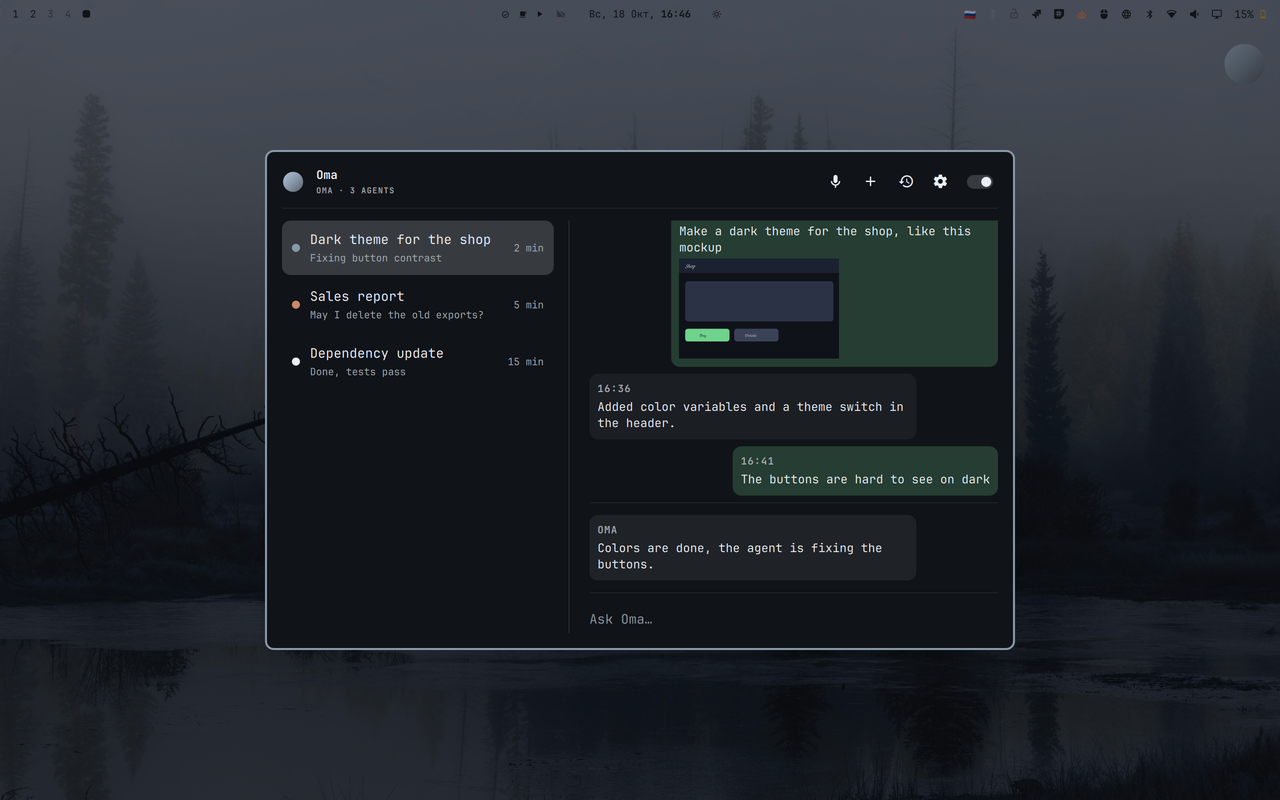
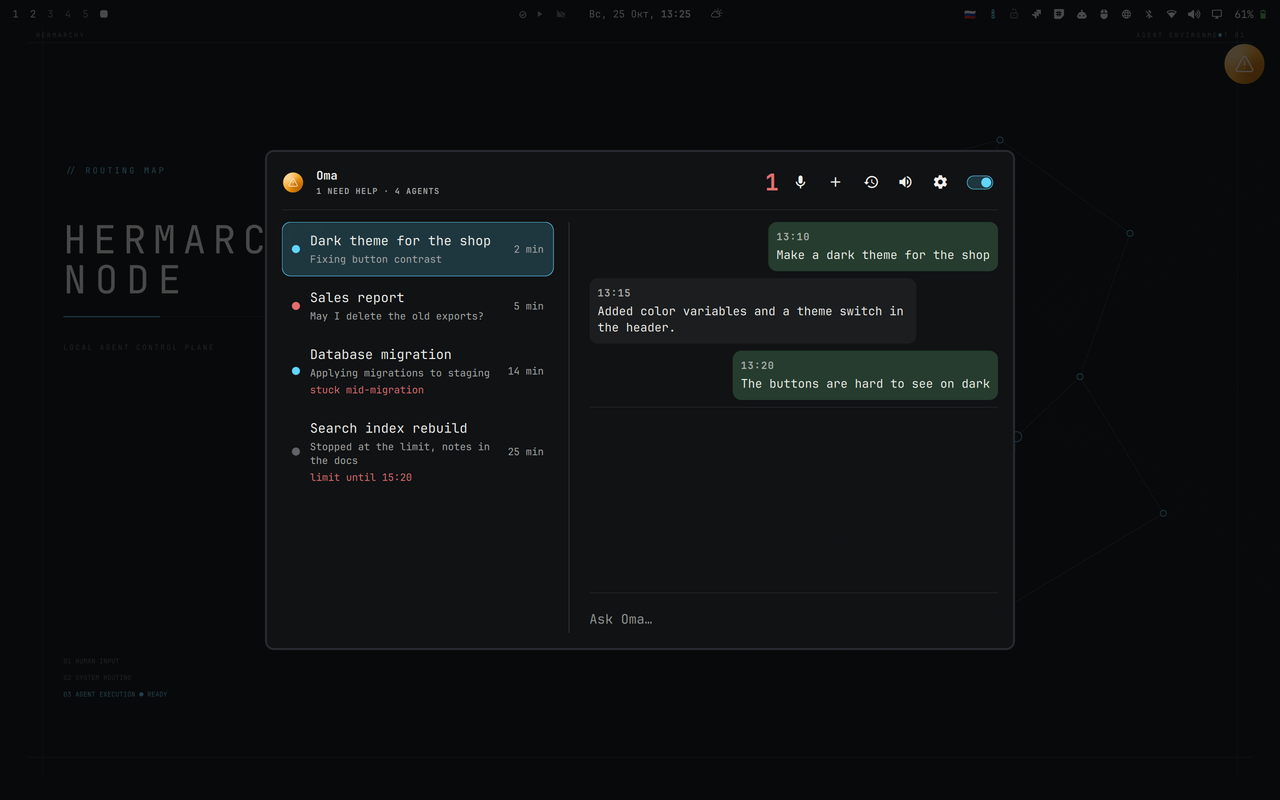
сторож: не сдаётся насовсем после трёх попыток, зовёт при молчании после просьбы про помощника; подсказка про лимит со свежими минутами; statusline без аргументов зовёт пользовательскую statusLine (обёртка — в managed-настройках, Orca её не затирает); новый снимок

diff --git a/src/watch.rs b/src/watch.rs
@@ -70,7 +70,7 @@ const WAKE_AFTER: u64 = 60;
 const NET_WAIT: u64 = 60;
 const NET_TRIES: usize = 3;
 const NET_WINDOW: u64 = 1800;
-/// Больше стольких попыток поднять зависшего за час — сдаёмся и зовём пользователя.
+/// Больше стольких попыток поднять зависшего за час — зовём пользователя; попытка вышла из часа — пробуем снова.
 const ATTEMPTS: usize = 3;
 const ATTEMPTS_WINDOW: u64 = 3600;
 /// Знаков ввода вызова в вопросе модели о зависании.
@@ -104,7 +104,8 @@ struct Track {
     active: u64, // active_at прошлого тика: сменился — агент ожил
     ladder: Ladder,
     said: bool,   // о нынешней тишине уже сказано (опасное, вне терминала, сдалась)
-    nudged: bool, // помощникам уже написано за эту тишину
+    nudged: u64,  // когда за эту тишину написали агенту про помощника; 0 — не писали
+    gave_up: bool, // попытки за час кончились, пользователю сказано
     sub: bool,    // прерван ход с сабагентом
     attempts: Vec<u64>,
     killed_at: u64, // Ома нажала Ctrl+C: агент, закрывшийся вскоре, поднять и при пользователе за компьютером
@@ -124,7 +125,7 @@ struct Track {
 impl Track {
     /// Агент ожил: тишина и всё, что о ней сказано и сделано, позади.
     fn calm(&mut self) {
-        (self.ladder, self.said, self.nudged, self.alarm) = (Ladder::None, false, false, false);
+        (self.ladder, self.said, self.nudged, self.gave_up, self.alarm) = (Ladder::None, false, 0, false, false);
         self.health = self.limited.map(|(u, _)| limit_health(u)).unwrap_or_default();
     }
 }
@@ -360,20 +361,39 @@ fn outside(t: &mut Track, f: &Facts, now: u64) -> Vec<Act> {
     say(&f.id, format!("{}: агент завис, но он не в herdr или Orca — перезапусти сам.", f.project), true)
 }
 
+/// Попыток за час не осталось — сказать пользователю один раз; None — пробовать можно.
+fn spent(t: &mut Track, f: &Facts, now: u64, what: &str) -> Option<Vec<Act>> {
+    t.attempts.retain(|&x| now.saturating_sub(x) < ATTEMPTS_WINDOW);
+    if t.attempts.len() < ATTEMPTS {
+        return None;
+    }
+    if t.gave_up {
+        return Some(vec![]);
+    }
+    (t.gave_up, t.alarm, t.alarm_at) = (true, true, now);
+    let n = (t.attempts[0] + ATTEMPTS_WINDOW - now).div_ceil(60);
+    Some(say(&f.id, format!("{}: {what}. Через {n} мин попробую снова.", f.project), true))
+}
+
 /// Работает, а событий нет `quiet` секунд: помощники, опасное, лестница Esc → Ctrl+C → перезапуск.
 fn hang(t: &mut Track, ctx: &Ctx, f: &Facts, quiet: u64) -> Vec<Act> {
     let (p, now, n) = (&f.project, ctx.now, quiet / 60);
     if f.helpers > 0 {
         // помощник бывает сервером и молчит часами: писать агенту — только по вердикту модели «висит»
         match t.ladder {
-            _ if t.nudged => return vec![],
-            Ladder::Hung => {
-                t.nudged = true;
-                t.attempts.retain(|&x| now.saturating_sub(x) < ATTEMPTS_WINDOW);
-                if t.attempts.len() >= ATTEMPTS {
-                    (t.said, t.alarm, t.alarm_at) = (true, true, now);
-                    return say(&f.id, format!("{p}: помощник агента снова молчит — посмотри сам."), true);
+            // просьба агента не разбудила — зовём пользователя, один раз
+            _ if t.nudged > 0 => {
+                if now.saturating_sub(t.nudged) < ctx.hung_after || t.said {
+                    return vec![];
                 }
+                (t.said, t.alarm, t.alarm_at) = (true, true, now);
+                return say(&f.id, format!("{p}: агент не ответил на просьбу проверить помощника — посмотри сам."), true);
+            }
+            Ladder::Hung => {
+                if let Some(acts) = spent(t, f, now, "помощник агента снова молчит — посмотри сам") {
+                    return acts;
+                }
+                t.nudged = now;
                 t.attempts.push(now);
             }
             Ladder::Judging => return vec![],
@@ -434,10 +454,8 @@ fn hang(t: &mut Track, ctx: &Ctx, f: &Facts, quiet: u64) -> Vec<Act> {
         return say(&f.id, text, true);
     }
     let Some(pane) = &f.pane else { return outside(t, f, now) };
-    t.attempts.retain(|&x| now.saturating_sub(x) < ATTEMPTS_WINDOW);
-    if t.attempts.len() >= ATTEMPTS {
-        (t.said, t.alarm, t.alarm_at) = (true, true, now);
-        return say(&f.id, format!("{p}: агент снова завис — поднять не получилось, посмотри сам."), true);
+    if let Some(acts) = spent(t, f, now, "агент снова завис — поднять не получилось, посмотри сам") {
+        return acts;
     }
     let sub = matches!(name, "Agent" | "Task");
     // без модели и при долгой тишине — завис; сабагент, молчащий вместе с родителем, — тоже
@@ -664,7 +682,7 @@ mod tests {
     }
 
     #[test]
-    fn three_attempts_an_hour_then_gives_up() {
+    fn three_attempts_an_hour_then_waits_for_the_window() {
         let mut w = Watch::default();
         let mut t = 1;
         for i in 0..3 {
@@ -673,8 +691,11 @@ mod tests {
             t += 801;
         }
         let a = Facts { call: Some(json!({"name": "Agent", "input": {}})), active_at: t, ..f("a") };
-        let acts = w.check(&ctx(t + 800, 999), vec![a], |_| true, |_| false);
-        assert!(matches!(&acts[..], [Act::Say { urgent: true, text, .. }] if text == "p: агент снова завис — поднять не получилось, посмотри сам."), "{acts:?}");
+        let acts = w.check(&ctx(t + 800, 999), vec![a.clone()], |_| true, |_| false);
+        assert!(matches!(&acts[..], [Act::Say { urgent: true, text, .. }] if text == "p: агент снова завис — поднять не получилось, посмотри сам. Через 20 мин попробую снова."), "{acts:?}");
+        assert_eq!(w.trouble(), 1);
+        assert!(w.check(&ctx(4400, 999), vec![a.clone()], |_| true, |_| false).is_empty(), "сказано один раз, попытки ещё в окне");
+        assert_eq!(run_of(&w.check(&ctx(4401, 999), vec![a], |_| true, |_| false)[0]).unwrap().what, What::Interrupt, "первая попытка вышла из часа — не сдаёмся");
     }
 
     #[test]
@@ -880,8 +901,26 @@ mod tests {
         let a = Facts { helpers: 1, active_at: t, ..f("a") };
         w.check(&ctx(t + 800, 0), vec![a.clone()], |_| true, |_| false);
         w.judged("a", true, t + 801);
-        let acts = w.check(&ctx(t + 802, 0), vec![a], |_| true, |_| false);
-        assert!(matches!(&acts[..], [Act::Say { urgent: true, text, .. }] if text == "p: помощник агента снова молчит — посмотри сам."), "{acts:?}");
+        let acts = w.check(&ctx(t + 802, 0), vec![a.clone()], |_| true, |_| false);
+        assert!(matches!(&acts[..], [Act::Say { urgent: true, text, .. }] if text == "p: помощник агента снова молчит — посмотри сам. Через 15 мин попробую снова."), "{acts:?}");
+        assert!(w.check(&ctx(t + 900, 0), vec![a.clone()], |_| true, |_| false).is_empty());
+        assert_eq!(run_of(&w.check(&ctx(803 + 3600, 0), vec![a], |_| true, |_| false)[0]).unwrap().what, What::Nudge, "окно освободилось — пишем снова");
+    }
+
+    #[test]
+    fn unanswered_nudge_calls_the_user() {
+        let mut w = Watch::default();
+        let a = Facts { helpers: 1, ..f("a") };
+        w.check(&ctx(800, 0), vec![a.clone()], |_| true, |_| false);
+        w.judged("a", true, 801);
+        assert_eq!(run_of(&w.check(&ctx(802, 0), vec![a.clone()], |_| true, |_| false)[0]).unwrap().what, What::Nudge);
+        assert!(w.check(&ctx(802 + 719, 0), vec![a.clone()], |_| true, |_| false).is_empty(), "ждём ответа агента");
+        let acts = w.check(&ctx(802 + 720, 0), vec![a.clone()], |_| true, |_| false);
+        assert!(matches!(&acts[..], [Act::Say { urgent: true, text, .. }] if text == "p: агент не ответил на просьбу проверить помощника — посмотри сам."), "{acts:?}");
+        assert!(w.check(&ctx(2000, 0), vec![a.clone()], |_| true, |_| false).is_empty(), "один раз");
+        assert_eq!(w.trouble(), 1);
+        assert!(w.check(&ctx(2100, 0), vec![Facts { active_at: 2050, ..a }], |_| true, |_| false).is_empty());
+        assert_eq!(w.trouble(), 0, "агент ожил — тревога снята");
     }
 
     #[test]

diff --git a/src/main.rs b/src/main.rs
@@ -85,15 +85,31 @@ fn post_tool_use(raw: &str, dir: &std::path::Path) -> Option<String> {
     Some(serde_json::json!({"hookSpecificOutput": {"hookEventName": event, "additionalContext": text}}).to_string())
 }
 
-/// Строка статуса Claude Code: проценты лимитов — демону, ввод и вывод — прежней команде строки (chain), её код выхода.
+/// Строка статуса Claude Code: проценты лимитов — демону, ввод и вывод — следующей команде (chain), её код выхода.
+/// Без chain следующая — statusLine пользовательских настроек: обёртка стоит в managed-настройках Claude Code,
+/// пользовательскую строку статуса (у автора — Orca, переписывает её при каждом запуске) не трогает.
 fn statusline(chain: &[String]) {
     let mut raw = String::new();
     let _ = std::io::stdin().read_to_string(&mut raw);
     if std::env::var_os("AGENT_SPEAK").is_none() {
         ipc::send(&Msg::Hook { kind: "statusline".into(), payload: serde_json::from_str(&raw).unwrap_or_default() });
     }
-    let Some((cmd, args)) = chain.split_first() else { return };
-    let child = std::process::Command::new(cmd).args(args).stdin(std::process::Stdio::piped()).spawn();
+    let dir = std::env::var_os("CLAUDE_CONFIG_DIR").map_or_else(|| std::path::PathBuf::from(std::env::var("HOME").unwrap_or_default()).join(".claude"), Into::into);
+    let user = chain.is_empty().then(|| user_statusline(&dir.join("settings.json"))).flatten();
+    let mut cmd = match (chain.split_first(), user) {
+        (Some((c, args)), _) => {
+            let mut x = std::process::Command::new(c);
+            x.args(args);
+            x
+        }
+        (None, Some(u)) => {
+            let mut x = std::process::Command::new("sh");
+            x.args(["-c", &u]);
+            x
+        }
+        (None, None) => return,
+    };
+    let child = cmd.stdin(std::process::Stdio::piped()).spawn();
     let code = match child {
         Ok(mut c) => {
             if let Some(mut w) = c.stdin.take() {
@@ -103,11 +119,17 @@ fn statusline(chain: &[String]) {
             c.wait().ok().and_then(|s| s.code()).unwrap_or(1)
         }
         Err(e) => {
-            eprintln!("agent-speak statusline: {cmd}: {e}");
+            eprintln!("agent-speak statusline: {:?}: {e}", cmd.get_program());
             1
         }
     };
     std::process::exit(code);
+}
+
+/// Команда statusLine из пользовательских настроек Claude Code; своя обёртка — нет: звала бы сама себя.
+fn user_statusline(settings: &std::path::Path) -> Option<String> {
+    let v: serde_json::Value = serde_json::from_str(&std::fs::read_to_string(settings).ok()?).ok()?;
+    v["statusLine"]["command"].as_str().filter(|c| !c.contains("agent-speak statusline")).map(String::from)
 }
 
 #[cfg(test)]
@@ -126,5 +148,20 @@ mod tests {
         assert!(post_tool_use(r#"{"session_id":"s1","agent_id":"a1"}"#, &dir).is_some(), "сабагент — свой раз");
         assert_eq!(post_tool_use("мусор", &dir), None);
         let _ = std::fs::remove_dir_all(dir);
+    }
+
+    #[test]
+    fn next_statusline_is_the_users_but_never_itself() {
+        let p = std::env::temp_dir().join(format!("oma-settings-{}.json", std::process::id()));
+        let with = |cmd: &str| {
+            std::fs::write(&p, serde_json::json!({"statusLine": {"type": "command", "command": cmd}}).to_string()).unwrap();
+            user_statusline(&p)
+        };
+        assert_eq!(with("/bin/sh ~/.orca/agent-hooks/claude-statusline.sh").as_deref(), Some("/bin/sh ~/.orca/agent-hooks/claude-statusline.sh"));
+        assert_eq!(with("/home/u/.local/bin/agent-speak statusline /bin/sh x.sh"), None, "своя обёртка — цикл");
+        std::fs::write(&p, "{}").unwrap();
+        assert_eq!(user_statusline(&p), None);
+        let _ = std::fs::remove_file(&p);
+        assert_eq!(user_statusline(&p), None);
     }
 }

diff --git a/src/limits.rs b/src/limits.rs
@@ -131,17 +131,14 @@ fn safe(id: &str) -> bool {
     !id.is_empty() && id.chars().all(|c| c.is_ascii_alphanumeric() || c == '-' || c == '_')
 }
 
-/// Подсказка сессии; уже есть — эпизод начат, текст не меняется.
+/// Подсказка сессии — каждый тик заново: минуты в ней относительные, сабагент читает её позже главного.
 pub fn put_hint(dir: &Path, session: &str, text: &str) {
     if !safe(session) || std::fs::create_dir_all(dir).is_err() {
         return;
     }
-    let path = dir.join(session);
-    if !path.exists() {
-        let tmp = dir.join(format!(".{session}.tmp"));
-        if std::fs::write(&tmp, text).is_ok() {
-            let _ = std::fs::rename(&tmp, &path); // хук не прочтёт половину
-        }
+    let tmp = dir.join(format!(".{session}.tmp"));
+    if std::fs::write(&tmp, text).is_ok() {
+        let _ = std::fs::rename(&tmp, dir.join(session)); // хук не прочтёт половину
     }
 }
 
@@ -243,12 +240,13 @@ mod tests {
     #[test]
     fn hint_once_per_agent_until_cleared() {
         let dir = std::env::temp_dir().join(format!("oma-hints-{}", std::process::id()));
-        put_hint(&dir, "s", "лимит");
-        put_hint(&dir, "s", "другой"); // эпизод уже начат — текст не меняется
+        put_hint(&dir, "s", "сброс через 40 мин");
         put_hint(&dir, "other", "лимит");
-        assert_eq!(take_hint(&dir, "s", "main").as_deref(), Some("лимит"));
+        assert_eq!(take_hint(&dir, "s", "main").as_deref(), Some("сброс через 40 мин"));
         assert_eq!(take_hint(&dir, "s", "main"), None);
-        assert_eq!(take_hint(&dir, "s", "a81492c2").as_deref(), Some("лимит")); // сабагент — свой раз
+        put_hint(&dir, "s", "сброс через 10 мин"); // тот же эпизод, минуты прошли
+        assert_eq!(take_hint(&dir, "s", "main"), None, "главный уже прочёл");
+        assert_eq!(take_hint(&dir, "s", "a81492c2").as_deref(), Some("сброс через 10 мин"), "сабагент — свой раз и свежие минуты");
         assert_eq!(take_hint(&dir, "нет", "main"), None);
         clear_hints(&dir, |s| s == "other");
         assert_eq!(take_hint(&dir, "s", "main"), None);

diff --git a/src/daemon.rs b/src/daemon.rs
@@ -1349,8 +1349,10 @@ impl State {
             let agent = f.key.split(':').next().unwrap_or_default();
             let text = limits::hint(f);
             for e in self.registry.entries().iter().filter(|e| e.agent == agent) {
-                limits::put_hint(&self.hints, &e.id, &text);
-                hinted.insert(e.id.clone());
+                // два плохих окна — подсказка по первому, как и прежде
+                if hinted.insert(e.id.clone()) {
+                    limits::put_hint(&self.hints, &e.id, &text);
+                }
             }
         }
         limits::clear_hints(&self.hints, |s| hinted.contains(s));

diff --git a/README.md b/README.md
@@ -55,15 +55,15 @@
   1. Висит сабагент: Ома жмёт Esc и пишет агенту «Сабагент висел N мин, я прервала ход. Перезапусти его, если он ещё нужен».
   2. Висит вызов или поток ответа: лёгкая модель смотрит на вызов и экран терминала. Висит — Esc и «Ход завис…, продолжай с того места, где остановился». Работа долгая по природе (сборка, тесты, ожидание) — Ома ждёт ещё. Тишина от трёх порогов — Esc без модели.
   3. Не помогло за полпорога — Ctrl+C дважды, и агент перезапускается, как после падения.
-  4. Больше трёх попыток за час — срочное «поднять не получилось, посмотри сам».
+  4. Больше трёх попыток за час — срочное «поднять не получилось, посмотри сам. Через N мин попробую снова». Ома не сдаётся насовсем: как только старая попытка выйдет из часа, она пробует снова, без пользователя.
 - **Не трогает опасное.** Вызов с push, удалением, `git reset`, force, миграцией, деплоем или записью в базу Ома не прерывает: срочно говорит «агент завис посреди push — не трогаю, посмотри сам». Непонятный инструмент MCP или незнакомый вызов — так же. Висит сабагент — смотрится его вызов (по метафайлу сабагента): «сабагент завис посреди миграции — не трогаю».
 - **Упал.** Процесс агента исчез посреди хода. Если пользователь минуту не трогал ввод, а терминал вернулся к приглашению оболочки, Ома набирает там `claude --resume <id>` с флагами пользователя и словами «Ты закрылся посреди хода, я перезапустила». Флаги — белый список: права, модель, усилие, каталоги. Падение не путается с выходом. Агент, вышедший сам, присылает хук `SessionEnd`: это закрыл пользователь, и Ома молчит. Пропала сессия, а процесс жив (`/clear`, `/resume`) — тоже не падение. Если пользователь был за компьютером, он, скорее всего, закрыл агента сам — Ома только сообщает.
-- **Лимит.** Строка статуса Claude Code даёт проценты окон «5ч» и «неделя», rollout Codex — свои. Ома считает темп за 15 минут. Если окно заполнено на 95 % и больше (`limit_threshold`) и лимит кончится раньше сброса, агенты и их сабагенты получают факты через хук `PostToolUse`, по разу: «лимит 5ч — 96 %, кончится через ~12 мин, сброс через 40 мин». Решает агент: успевает — доделывает, не успевает — записывает в доку, что сделано, и останавливается со строкой «Остановился по лимиту». Жёстко Ома не прерывает никого. Пока прогноз плохой, промежуточное не пересказывается — это и её расход лимита. Лимит кончился — одна фраза на все агенты: «Кончился лимит Claude, сброс в 15:20». Через минуту после сброса Ома будит вставших: «Лимит сброшен, продолжай по своей записи в доке».
+- **Лимит.** Строка статуса Claude Code даёт проценты окон «5ч» и «неделя», rollout Codex — свои. Ома считает темп за 15 минут. Если окно заполнено на 95 % и больше (`limit_threshold`) и лимит кончится раньше сброса, агенты и их сабагенты получают факты через хук `PostToolUse`, по разу: «лимит 5ч — 96 %, кончится через ~12 мин, сброс через 40 мин». Текст подсказки обновляется раз в минуту, поэтому сабагент, прочитавший её позже главного агента, видит верные минуты. Решает агент: успевает — доделывает, не успевает — записывает в доку, что сделано, и останавливается со строкой «Остановился по лимиту». Жёстко Ома не прерывает никого. Пока прогноз плохой, промежуточное не пересказывается — это и её расход лимита. Лимит кончился — одна фраза на все агенты: «Кончился лимит Claude, сброс в 15:20». Через минуту после сброса Ома будит вставших: «Лимит сброшен, продолжай по своей записи в доке».
 - **Связь.** Ход кончился ошибкой «Connection lost» — через минуту Ома просит агента продолжить, не больше трёх раз за полчаса, дальше — срочное «связь не держится».
 - **Ошибки API.** Нужен вход, запрос отклонён фильтрами, неизвестная ошибка — срочное, один раз.
-- **Помощники молчат.** Ход кончен, фоновые помощники агента работают, и все молчат 12 минут. Помощника видно по его метафайлу (`subagents/*.meta.json` без `finished`, с запуска процесса агента). Помощник бывает сервером и молчит часами, поэтому Ома сначала спрашивает модель. Только если та ответит «висит», Ома пишет агенту: «Твой фоновый помощник молчит… проверь его».
+- **Помощники молчат.** Ход кончен, фоновые помощники агента работают, и все молчат 12 минут. Помощника видно по его метафайлу (`subagents/*.meta.json` без `finished`, с запуска процесса агента). Помощник бывает сервером и молчит часами, поэтому Ома сначала спрашивает модель. Только если та ответит «висит», Ома пишет агенту: «Твой фоновый помощник молчит… проверь его». Обычно эта просьба будит агента, и проверка начинается заново. Если агент не отозвался за 12 минут, Ома срочно зовёт пользователя. Других агентов это не касается.
 - **Забытый вопрос.** Агент ждёт ответа дольше 15 минут (`remind_after`) — вопрос снова на доске, раз в 15 минут.
-- **Где действует.** Писать агенту, прерывать и перезапускать Ома может, только если терминал агента в herdr или Orca. Терминал находится по окружению процесса агента: herdr — `HERDR_PANE_ID` и `HERDR_SOCKET_PATH`, Orca — `ORCA_TERMINAL_HANDLE`. Окружение наследует всё, что запущено из такого терминала, поэтому терминал засчитывается, только если им владеет сам мультиплексор: первый предок агента, не считая оболочек, — сервер herdr или pty-хост Orca. Окно foot, открытое из терминала Orca, — не терминал Orca. herdr, запущенный в терминале Orca, — панель herdr. Агент вне них (обычное окно терминала) получает только подсказки про лимит; о зависшем Ома говорит «он не в herdr или Orca — перезапусти сам».
+- **Где действует.** Писать агенту, прерывать и перезапускать Ома может, только если терминал агента в herdr или Orca. Терминал находится по окружению процесса агента: herdr — `HERDR_PANE_ID` и `HERDR_SOCKET_PATH`, Orca — `ORCA_TERMINAL_HANDLE`. Окружение наследует всё, что запущено из такого терминала, поэтому терминал засчитывается, только если им владеет сам мультиплексор: первый предок агента, не считая оболочек, — сервер herdr или pty-хост Orca. Окно foot, открытое из терминала Orca, — не терминал Orca. herdr, запущенный в терминале Orca, — панель herdr, а Orca, запущенная в панели herdr, — терминал Orca. Агент вне них (обычное окно терминала) получает только подсказки про лимит; о зависшем Ома говорит «он не в herdr или Orca — перезапусти сам».
 
 ## Управление
 
@@ -121,7 +121,12 @@
 ## Установка и тесты
 
 `./install.sh` — сборка, сервис `systemd --user`, venv с Silero и voice-venv для Омы, ссылка на плагин. Плагин включается `omarchy plugin enable predmaxim.agent-speak`. Хуки Claude (`~/.claude/settings.json`: `Stop`, `UserPromptSubmit`, `Notification`, `MessageDisplay` → `agent-speak hook <вид>`, `PostToolUse` → `agent-speak hook post-tool-use` — подсказка про лимит, `SessionEnd` → `agent-speak hook session-end` — агент вышел сам, а не упал) и `notify` Codex (`~/.codex/config.toml`) подключаются вручную.
-- **Строка статуса** — обёртка: `"statusLine": {"type": "command", "command": "agent-speak statusline <прежняя команда…>"}`. Проценты лимитов уходят демону, ввод и вывод — прежней команде (у автора — скрипт Orca `/bin/sh ~/.orca/agent-hooks/claude-statusline.sh`). Orca может переписать `statusLine` при своём обновлении: тогда пропадёт только прогноз лимита, остальное останется.
+- **Строка статуса** — обёртка в managed-настройках Claude Code, они старше пользовательских. Ставится один раз, нужен root:
+  ```sh
+  printf '{"statusLine": {"type": "command", "command": "%s statusline"}}\n' ~/.local/bin/agent-speak \
+    | sudo install -Dm644 /dev/stdin /etc/claude-code/managed-settings.d/agent-speak.json
+  ```
+  Проценты лимитов уходят демону. Ввод и вывод — команде `statusLine` из `~/.claude/settings.json` (у автора — скрипт Orca). Пользовательскую `statusLine` обёртка не трогает. Orca переписывает её при каждом своём запуске, если узнаёт там свой скрипт, поэтому обёртка в ней не держится. В `/status` Claude Code появится строка `Enterprise managed settings (file)`. Битый JSON в этом файле не даст Claude Code запуститься. Без root подойдёт и прежний вид, если `statusLine` больше никто не переписывает: `agent-speak statusline <прежняя команда…>`.
 - **Codex:** подсказка про лимит — тем же хуком, `PostToolUse` → `agent-speak hook post-tool-use` в `~/.codex/hooks.json`; Codex попросит доверить новый хук.
 
 Тесты: `cargo test`, с моделью — `cargo test -- --ignored` и `python/test_silero_tts.py`; Ома — `~/.local/share/agent-speak/voice-venv/bin/python -m pytest python/test_agent_voice.py`; плагин — `node plugin/test.js`.

diff --git a/docs/superpowers/plans/2026-10-25-oma-watch.md b/docs/superpowers/plans/2026-10-25-oma-watch.md
@@ -34,16 +34,20 @@
 - **Одинаковые фразы** проектов склеиваются.
 - **Вопрос к пользователю** в полёте — не зависание.
 
-Не сделано:
-- Снимок орба «нужна помощь»: экран был заблокирован, `grim` висит. QML перезагрузился без ошибок, тесты плагина зелёные. `preview.png` не переснят.
-
 Отложено (мелкое, из финальной проверки):
 - вне мультиплексора срочное «завис» звучит без вопроса модели;
-- просьба к агенту про помощника без продолжения;
 - текст в приглашение агента и оболочки — без проверки недонабранного (Ctrl+U не шлётся);
 - вывод CLI читается без таймаута, если его держит внук;
-- подсказка «сброс через N мин» относительная, у прогноза нет гистерезиса;
-- до трёх попыток поднять агента за час.
+- у прогноза лимита нет гистерезиса.
+
+### Доделки по вопросам пользователя (2026-10-25)
+
+- **Снимок.** Сделан: `plugin/preview.png`, постановка с выдуманными агентами (подставной сокет демона на минуту), оранжевый орб и строки здоровья. Оболочка с 02:32 держала старые `Model.js` и `Window.qml`: перезагрузка плагина по изменению файлов не сбросила кэш. Помог `omarchy restart shell`.
+- **`statusLine` и Orca.** Orca переписывает `statusLine` не только при обновлении, а при каждом своём запуске: команда со строкой `agent-hooks/claude-statusline.sh` для неё «своя» (`installManagedStatusLine`). Обёртка переехала в managed-настройки Claude Code (`/etc/claude-code/managed-settings.d/agent-speak.json`, старше пользовательских). `agent-speak statusline` без аргументов зовёт `statusLine` из `~/.claude/settings.json`, а там снова команда самой Orca. Пользователь отверг опрос настроек раз в минуту как костыль.
+- **Попытки.** Предел прежний: 3 за час. Сдаётся Ома теперь не насовсем: сказав «поднять не получилось», она пробует снова, когда старая попытка выйдет из часа. Окно в 15 минут не взяли: при пороге 12 минут три зависания длятся не меньше 36 минут, и предел перестал бы действовать.
+- **Просьба про помощника.** Агент не отозвался за `hung_after` — срочный зов пользователя. Ома замолкала только об этом агенте и только до его следующего движения, но без зова агент мог стоять, пока пользователь не заглянет.
+- **Подсказка про лимит.** Форма «сброс через N мин» осталась, её выбрал пользователь. Текст пишется заново каждый тик, а не замораживается в начале эпизода: сабагент читает его позже главного, и минуты должны быть верными.
+- **Orca внутри herdr.** Работает без правок: терминал засчитывается по хозяину (pty-хост Orca), а не по порядку адаптеров.
 
 ## Решения этого плана
 
@@ -54,7 +58,7 @@
 - **Пороги по умолчанию.** Сторож — раз в 60 с (`watch_every`). «Завис» — 12 мин тишины (`hung_after`): Bash в Claude Code сам обрывается через 10 мин, 12 мин его не спутают с зависанием. Напоминание о вопросе — раз в 15 мин (`remind_after`). Порог лимита — 95 % (`limit_threshold`).
 - **Прогноз лимита.** Темп считается по замерам за последние 15 мин, нужен размах замеров от 2 мин. Время до конца — `(100 − %) / темп`. Прогноз плохой, если `% ≥ порога` и лимит кончится раньше сброса. Темп ≤ 0 — прогноза нет, Ома молчит.
 - **«Встал по лимиту» и «закончил ход».** Подсказка просит агента, остановившегося из-за лимита, закончить ответ строкой «Остановился по лимиту». Конец хода с этой строкой означает, что агент встал по лимиту. Вторая причина: последняя запись транскрипта — ошибка API `rate_limit`. После сброса +60 с Ома будит обоих.
-- **Подсказка — один раз за эпизод.** Файл `$XDG_RUNTIME_DIR/agent-speak-hints/<session>`. Его текст фиксируется при первом плохом прогнозе. Хук отдаёт текст один раз главному агенту и один раз каждому сабагенту (метка `<session>.<agent_id|main>.seen`). Прогноз стал хорошим или лимит сброшен — файлы удаляются.
+- **Подсказка — один раз за эпизод.** Файл `$XDG_RUNTIME_DIR/agent-speak-hints/<session>`. Текст пишется заново каждый тик, минуты в нём относительные. Хук отдаёт текст один раз главному агенту и один раз каждому сабагенту (метка `<session>.<agent_id|main>.seen`). Прогноз стал хорошим или лимит сброшен — файлы удаляются.
 - **Лестница при зависании.** Сначала Esc и сообщение «продолжай». Если тишина держится ещё `hung_after/2`, Ома шлёт Ctrl+C дважды: агент выходит, и дальше работает путь «упал». Если и после перезапуска агент висит, звучит срочное «поднять не получилось». Любая активность агента после действия Омы сбрасывает лестницу.
 - **Оценка модели.** Вызов инструмента или поток ответа молчат `hung_after`. Тогда Haiku получает последний вызов и экран терминала и отвечает: висит или работа долгая по природе (сборка, тесты, сон, ожидание сервера, повтор запроса на экране). Ответ «долгая» откладывает вопрос ещё на `hung_after`. Без модели и при тишине от `3 × hung_after` агент считается зависшим. Сабагент (`Agent`/`Task`), молчащий вместе с родителем, считается зависшим без модели.
 - **Опасно или непонятно — не трогать.** Bash с push, `rm`, `git reset`, force, миграцией, деплоем, записью в базу — не трогать, срочно спросить пользователя. Инструмент MCP, чьё имя не начинается с get/list/read/search/find/query/fetch/describe/show, — тоже. Незнакомый инструмент — тоже.
